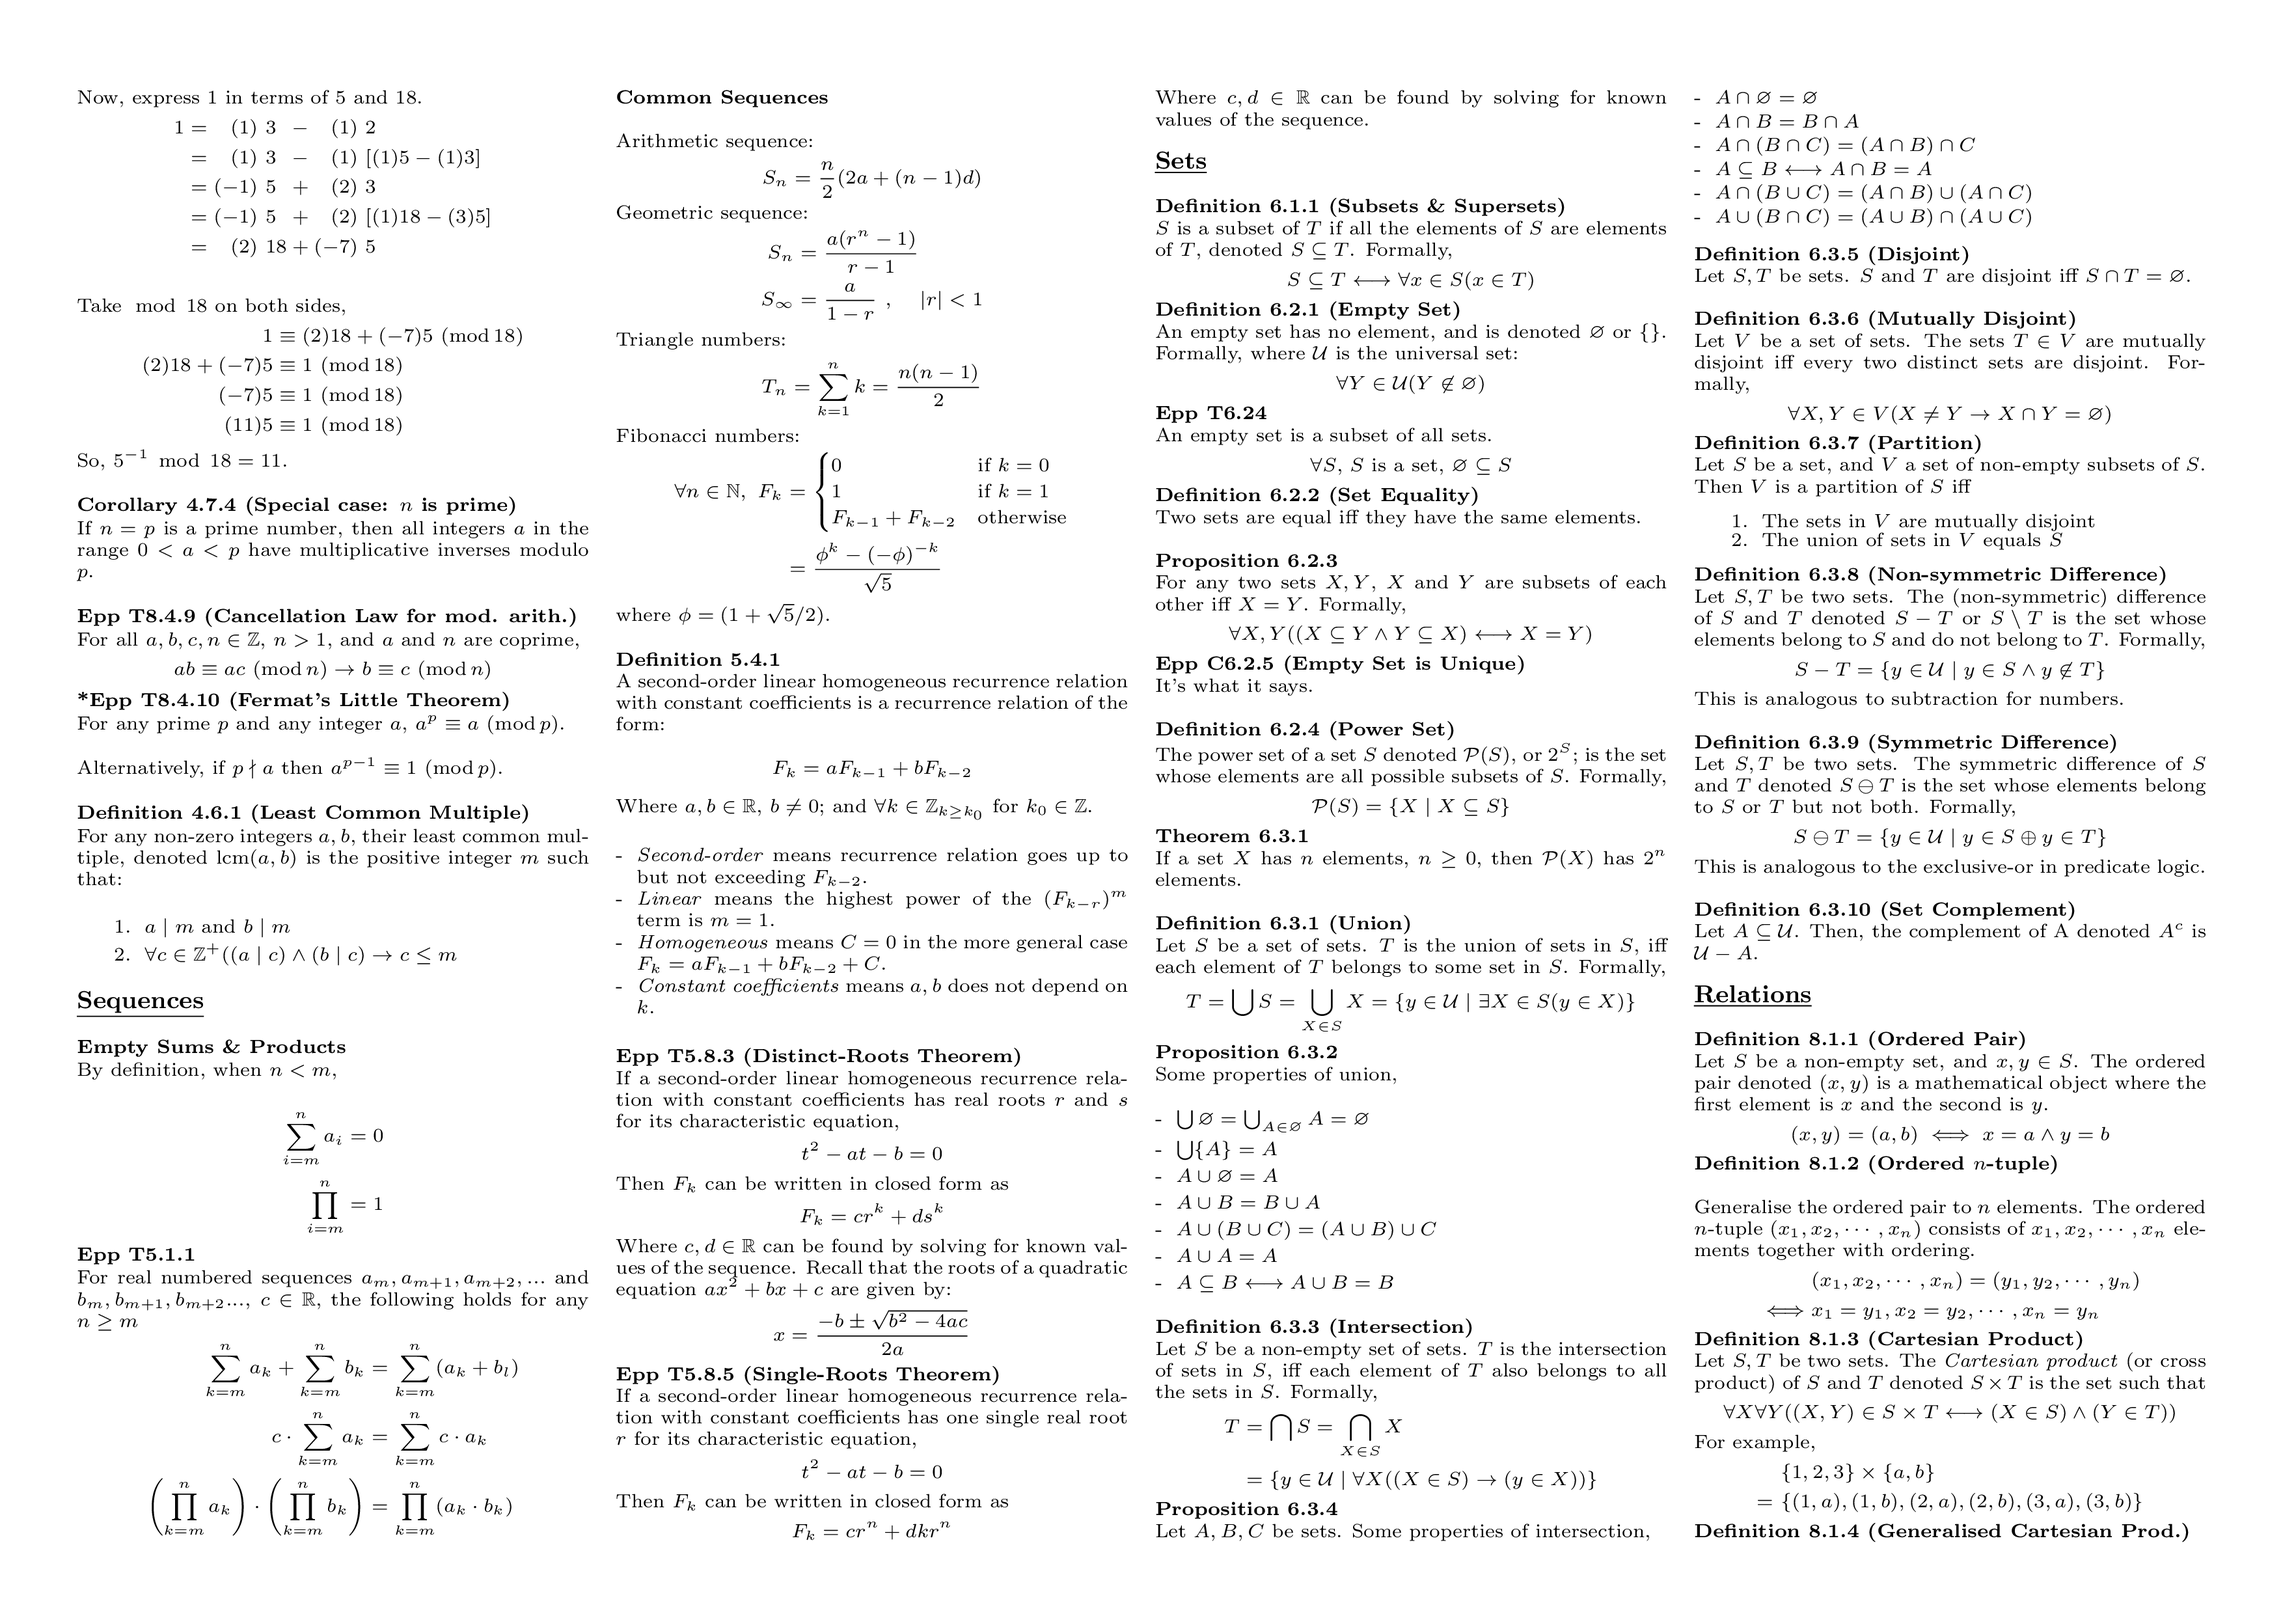
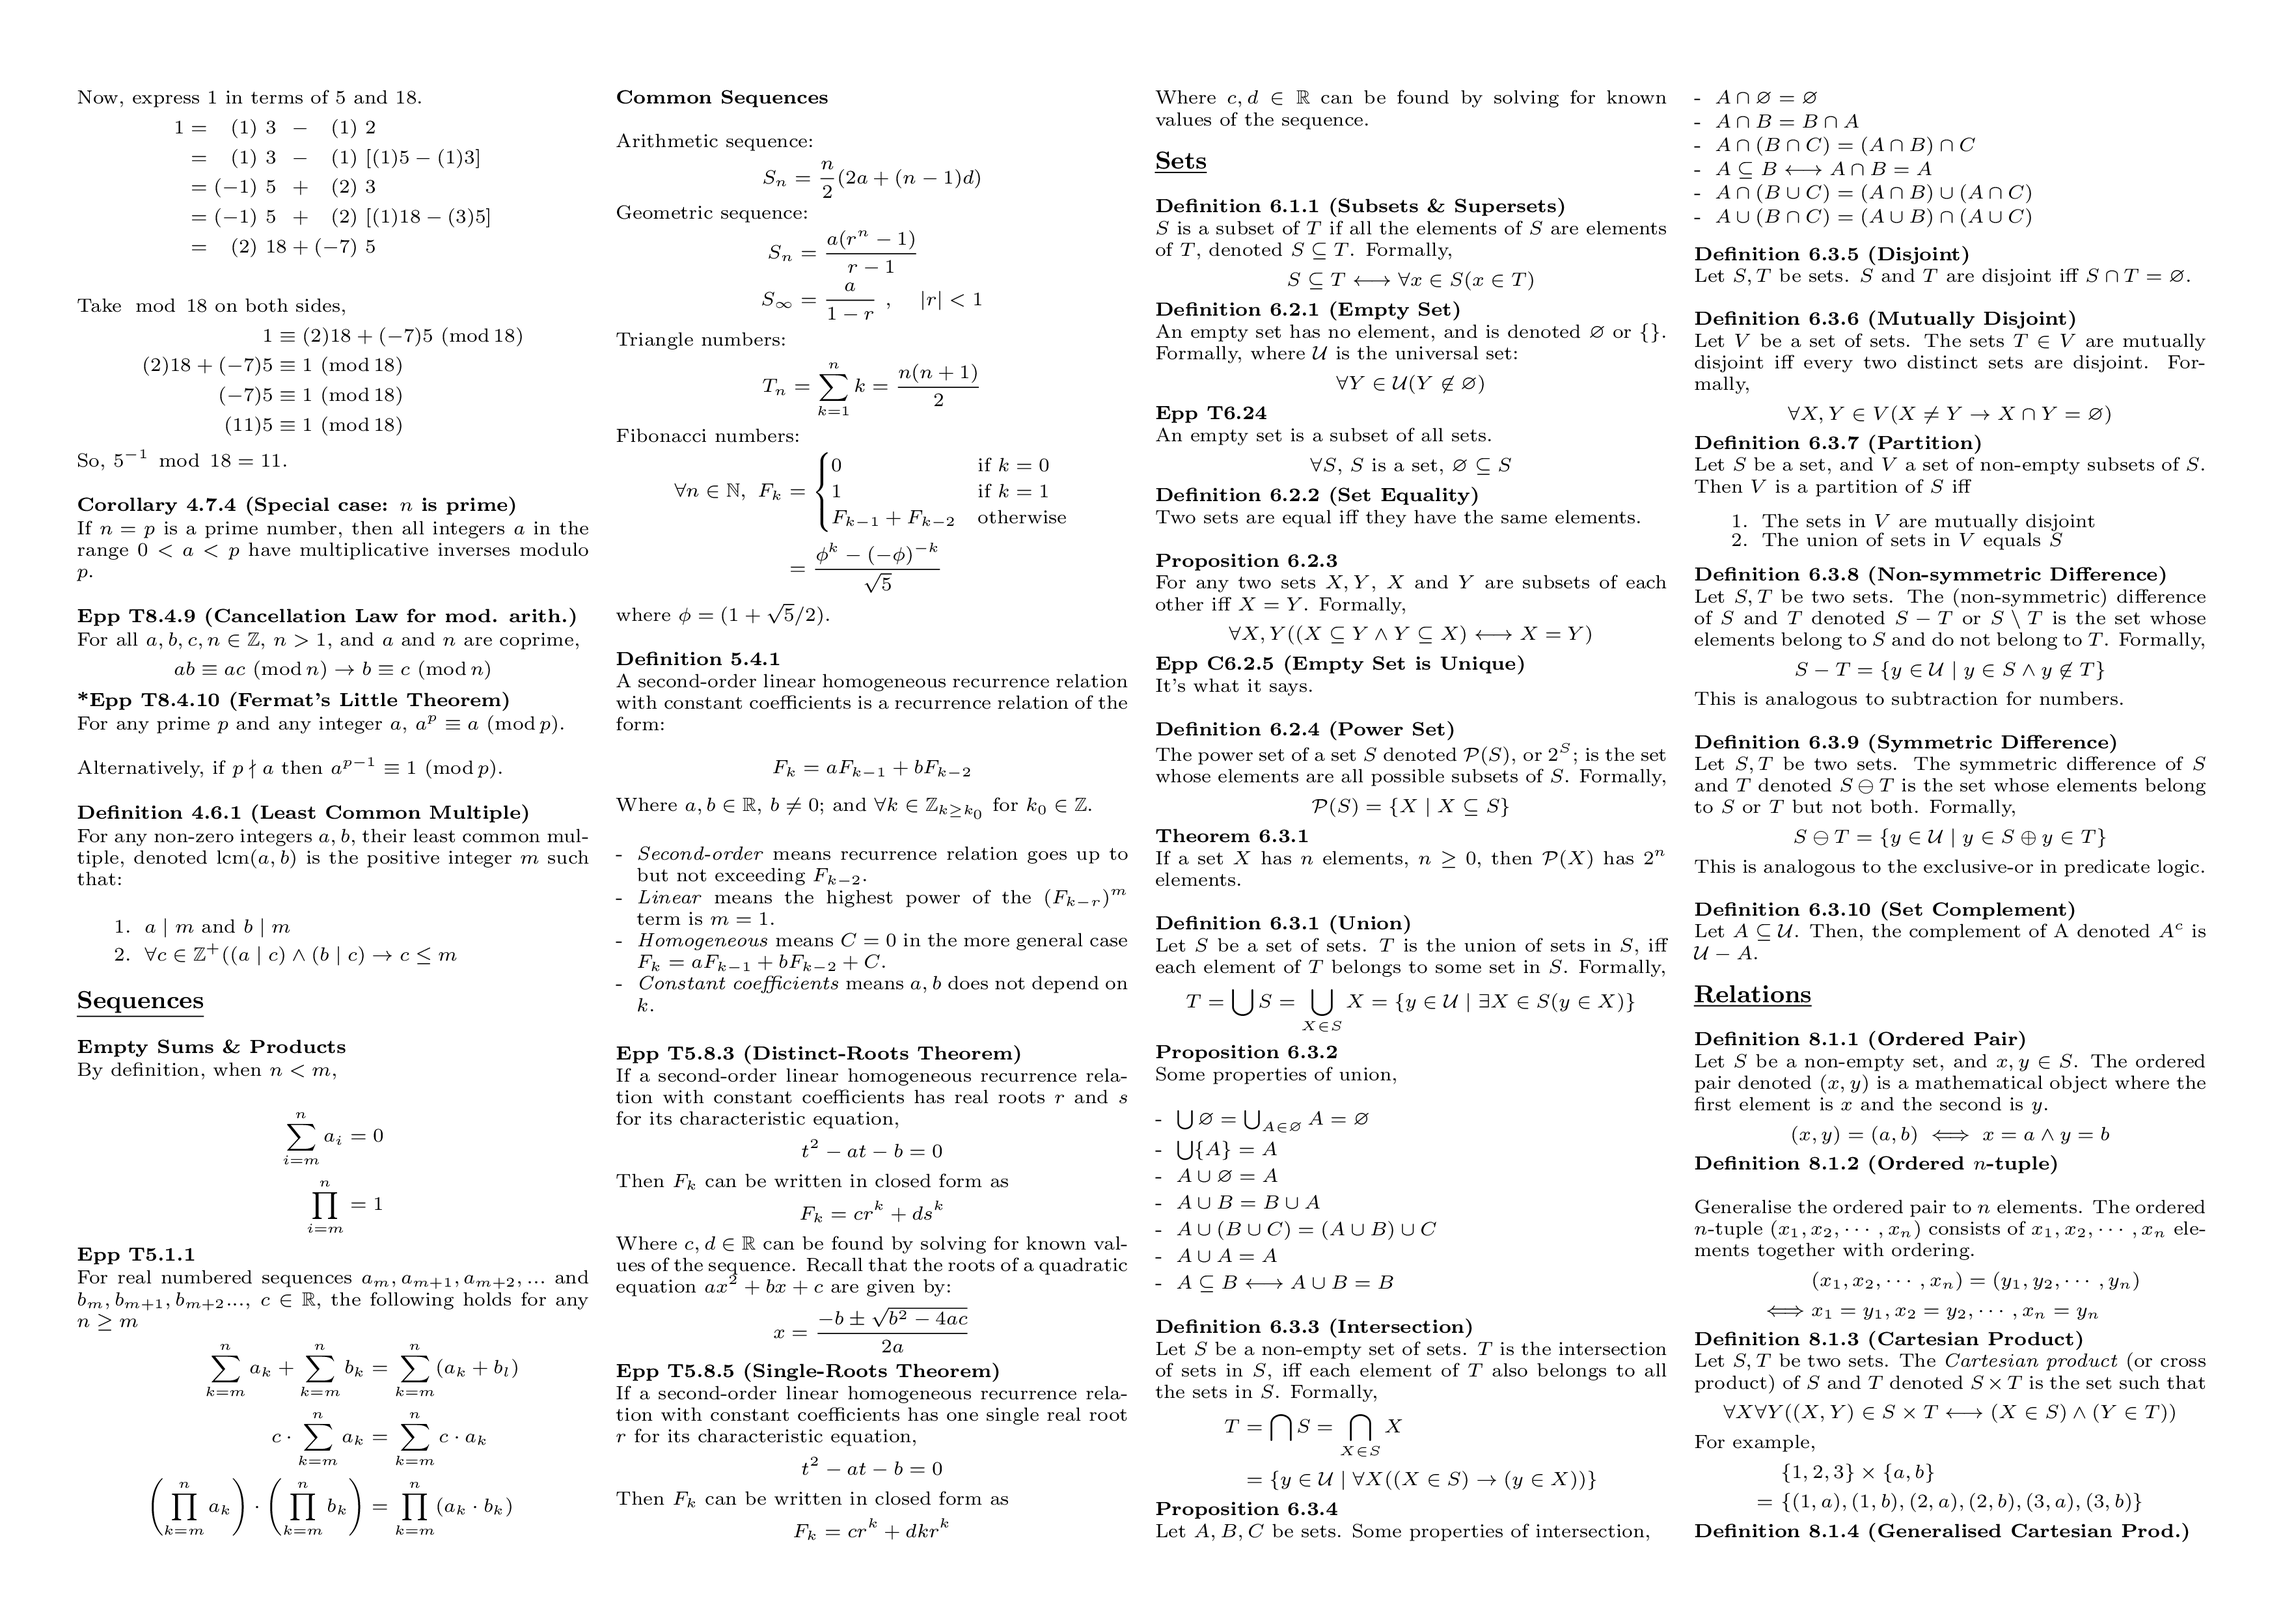
Fix typos in CS1231 finals (#15)
* Fix typo in single-roots theorem

* Fix wrong closed sum formula for triangle numbers

* Update docs and pdf

Changed region(s): [[0.2796, 0.652, 0.4971, 0.9315], [0.2796, 0.5278, 0.4971, 0.621]]

diff --git a/src/cs1231-finals-2018s1.tex b/src/cs1231-finals-2018s1.tex
@@ -656,7 +656,7 @@ Geometric sequence:
   S_{\infty} &=& \frac{a}{1-r}\ ,&\text{$|r| < 1$}
 \end{IEEEeqnarray*}
 Triangle numbers:
-$$T_n = \sum^n_{k=1} k = \frac{n(n-1)}{2} $$
+$$T_n = \sum^n_{k=1} k = \frac{n(n+1)}{2} $$
 Fibonacci numbers:
 \begin{align*}
 \forall n \in \mathbb{N},\ F_k &= \begin{cases}
@@ -707,7 +707,7 @@ If a second-order linear homogeneous recurrence relation with constant
 coefficients has one single real root $r$ for its characteristic equation,
 $$t^2 - at - b = 0$$
 Then $F_k$ can be written in closed form as
-$$F_k = cr^n + dkr^n$$
+$$F_k = cr^k + dkr^k$$
 Where $c, d \in \mathbb{R}$ can be found by solving for known values of the
 sequence.\\
 
